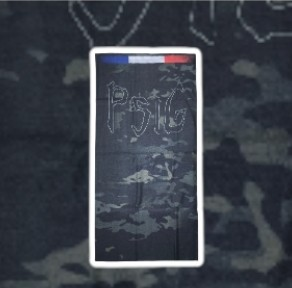
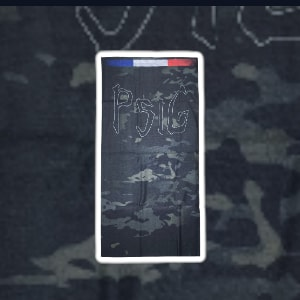
Remplace les photos produits par les visuels HelloAsso
Photos ré-encodées sans métadonnées (EXIF retiré), vignettes et galerie
au format carré pour ne plus rogner les visuels. Ajout de la photo de
l'écusson « L'Opérationnel » dans le Pack PVC.

Claude-Session: https://claude.ai/code/session_01QTKXkeQ68uGVpTiSnDP5oo

diff --git a/README.md b/README.md
@@ -2,7 +2,7 @@
 
 Site vitrine des écussons et produits de l'amicale. **Aucun paiement sur le site** : chaque bouton « Acheter sur HelloAsso » renvoie vers la boutique HelloAsso.
 
-> Les 13 produits viennent de la boutique HelloAsso. Leurs photos sont provisoires (découpées dans des captures d'écran) : à remplacer par les vraies photos en bonne qualité.
+> Les 13 produits viennent de la boutique HelloAsso. Leurs photos viennent de HelloAsso (300 × 300 px) : de plus grandes photos, prises de nuit, rendraient mieux.
 
 ---
 

diff --git a/src/content/produits/porte-cles-psig.md b/src/content/produits/porte-cles-psig.md
@@ -4,7 +4,7 @@ description_courte: L'identité Sabre sur votre trousseau. Tissu brodé, finitio
 prix: 3
 photos:
   - photo: ./images/porte-cles-psig.jpg
-    texte_alternatif: Porte-clés en tissu noir brodé « PSIG Montargis ».
+    texte_alternatif: Deux porte-clés en tissu noir brodé, « PSIG Montargis » et « Keep calm and call us ».
 statut: disponible
 ordre: 30
 categorie: accessoire

diff --git a/src/content/produits/pack-pvc-operationnel.md b/src/content/produits/pack-pvc-operationnel.md
@@ -5,6 +5,8 @@ prix: 20
 photos:
   - photo: ./images/pack-pvc-operationnel.jpg
     texte_alternatif: Trois écussons PVC ronds du PSIG Sabre Montargis réunis dans le pack.
+  - photo: ./images/ecusson-operationnel.jpg
+    texte_alternatif: Écusson PVC standard « L'Opérationnel », loup noir sur fond noir et bleu.
 statut: disponible
 numerotation: Stock limité
 ordre: 1
